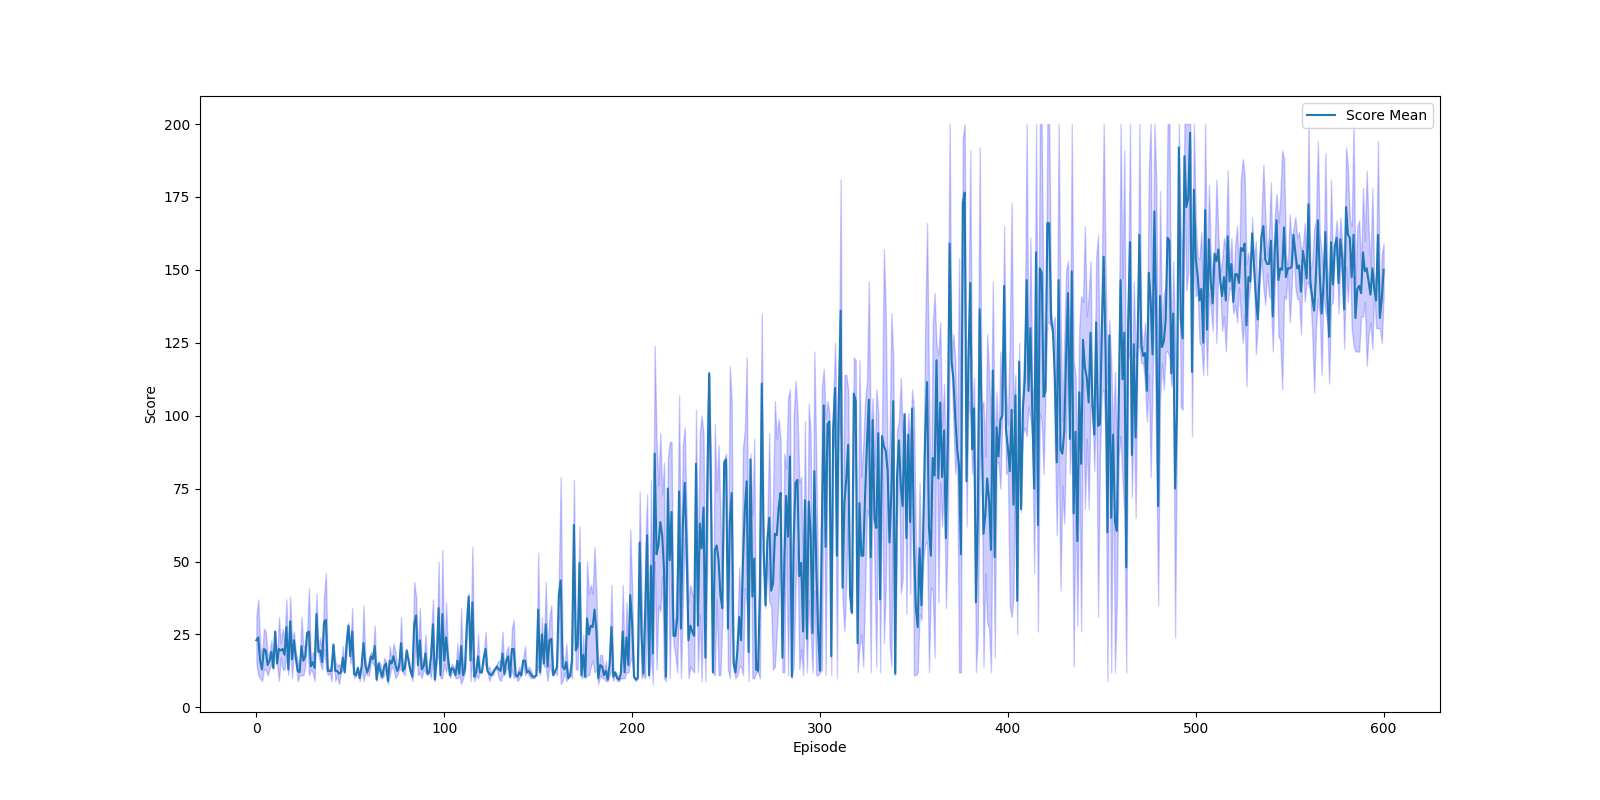
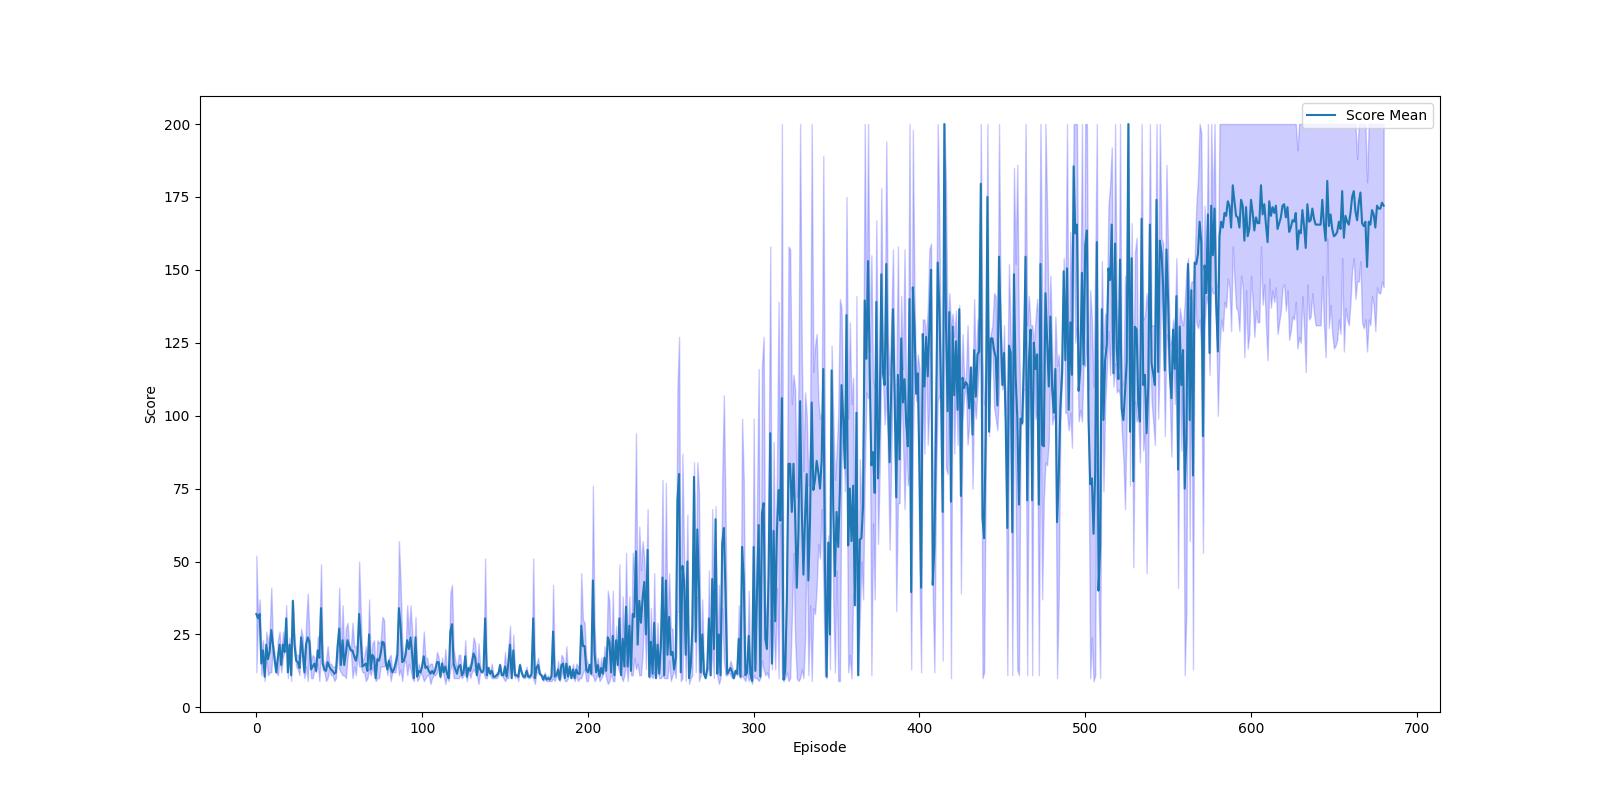
VDP stuff works

Changed region(s): [[0.1562, 0.1562, 0.875, 0.875], [0.25, 0.9062, 0.2812, 0.9375]]

diff --git a/project_experiments/vision_cart_pole.py b/project_experiments/vision_cart_pole.py
@@ -35,10 +35,10 @@ for filename in os.listdir(folder):
 ############ HYPERPARAMETERS ##############
 BATCH_SIZE = 128 # original = 128
 #env_batch_size = 256
-env_epochs = 30
-env_loss_ratio = 0.5 # recon_loss = img_loss + env_loss_ratio*reward_loss
-kl_ratio = 0.01 # loss = recon_loss + kl_ratio+kl_dif_loss
-env_lr = 0.0009
+env_epochs = 10#30
+env_loss_ratio = 0.005 # recon_loss = img_loss + env_loss_ratio*reward_loss
+kl_ratio = 0.00005 # loss = recon_loss + kl_ratio+kl_dif_loss
+env_lr = 0.005
 env_decay = 0.95
 GAMMA = 0.999 # original = 0.999
 EPS_START = 0.9 # original = 0.9
@@ -185,7 +185,7 @@ class D_AutoEncoder(nn.Module):
 
     def __init__(self, h, w, latent_dim, actions, action_latents):#""", state_vars):"""
         super(D_AutoEncoder, self).__init__()
-        self.conv1 = vdp.Conv2d(nn_inputs, HIDDEN_LAYER_1, kernel_size=KERNEL_SIZE, stride=STRIDE) 
+        self.conv1 = vdp.Conv2d(nn_inputs, HIDDEN_LAYER_1, kernel_size=KERNEL_SIZE, stride=STRIDE, input_flag=True) 
         self.bn1 = vdp.BatchNorm2d(HIDDEN_LAYER_1)
         self.conv2 = vdp.Conv2d(HIDDEN_LAYER_1, HIDDEN_LAYER_2, kernel_size=KERNEL_SIZE, stride=STRIDE)
         self.bn2 = vdp.BatchNorm2d(HIDDEN_LAYER_2)
@@ -201,46 +201,59 @@ class D_AutoEncoder(nn.Module):
         self.convh = convh
         self.convw = convw
         nn.Dropout()
-        self.latent_mu = vdp.Linear(linear_input_size, latent_dim)
-        self.latent_sigma = vdp.Linear(linear_input_size, latent_dim)
-        self.action_encode = vdp.Linear(actions, action_latents)
+        self.latentize = vdp.Linear(linear_input_size, latent_dim)
+        #self.latent_mu = vdp.Linear(linear_input_size, latent_dim)
+        #self.latent_sigma = vdp.Linear(linear_input_size, latent_dim)
+        self.action_encode = vdp.Linear(actions, action_latents, input_flag=True)
         self.un_latentize = vdp.Linear(latent_dim + action_latents, linear_input_size)
         self.tconv3 = vdp.ConvTranspose2d(HIDDEN_LAYER_3, deconv_ch2, kernel_size=KERNEL_SIZE, stride=STRIDE, output_padding=[1,0])
         self.tconv2 = vdp.ConvTranspose2d(deconv_ch2, deconv_ch1, kernel_size=KERNEL_SIZE, stride=STRIDE, output_padding=[1,1])
         self.tconv1 = vdp.ConvTranspose2d(deconv_ch1, nn_inputs, kernel_size=KERNEL_SIZE, stride=STRIDE, output_padding=[1,0])
         self.reward_decode = vdp.Linear(linear_input_size, n_env_vars)
+        self.gelu = vdp.GELU()
+        self.sigmoid = vdp.Sigmoid()
 
     # Called with either one element to determine next action, or a batch
     # during optimization. Returns tensor([[left0exp,right0exp]...]).
     def encode(self, x):
         #print(x.shape)
-        x = F.leaky_relu(self.bn1(self.conv1(x)), 0.2)
-        x = F.leaky_relu(self.bn2(self.conv2(x)), 0.2)
-        x = F.leaky_relu(self.bn3(self.conv3(x)), 0.2)
-        mu = self.latent_mu(x.view(x.size(0), -1))
-        log_sigma = self.latent_sigma(x.view(x.size(0), -1))
-        return mu, log_sigma
+        mu, sigma = self.gelu(*self.bn1(*self.conv1(x)))
+        mu, sigma = self.gelu(*self.bn2(*self.conv2(mu, sigma)))
+        mu, sigma = self.gelu(*self.bn3(*self.conv3(mu, sigma)))
+        #mu = self.latent_mu(x.view(x.size(0), -1))
+        #log_sigma = self.latent_sigma(x.view(x.size(0), -1))
+        mu, sigma = self.latentize(mu.view(x.size(0), -1), sigma.view(x.size(0), -1))
+        return mu, sigma
     
     def reparemetrize(self, mu, sigma):
         epsilon = torch.randn_like(sigma).to(device)
         return mu + epsilon * sigma
 
 
-    def decode(self, z):
-        z = F.leaky_relu(self.un_latentize(z), 0.2)
-        rw = self.reward_decode(z)
-        z = F.leaky_relu(self.tconv3(z.view(z.size(0), -1, self.convh, self.convw)), 0.2)
-        z = F.leaky_relu(self.tconv2(z), 0.2)
-        return torch.sigmoid(self.tconv1(z)), rw.view(-1, n_env_vars)
+    def decode(self, mu, sigma):
+        mu, sigma = self.gelu(*self.un_latentize(mu, sigma))
+        r_mu, r_sigma = self.reward_decode(mu, sigma)
+        mu, sigma = self.gelu(*self.tconv3(mu.view(mu.size(0), -1, self.convh, self.convw), 
+                                   sigma.view(sigma.size(0), -1, self.convh, self.convw)))
+        mu, sigma = self.gelu(*self.tconv2(mu, sigma))
+        mu, sigma = self.tconv1(mu, sigma)
+        stuff = self.sigmoid(mu, sigma)
+        mu, sigma = stuff
+        
+        return mu, sigma, r_mu.view(-1, n_env_vars), r_sigma.view(-1, n_env_vars)
     
     def forward(self, x, a):
-        mu, log_sigma = self.encode(x)
-        z = self.reparemetrize(mu, torch.exp(0.5*log_sigma))
+        mu, sigma = self.encode(x)
+        #z = self.reparemetrize(mu, torch.exp(0.5*log_sigma))
         #z = mu
         a = torch.cat((a, torch.ones_like(a)-a), dim=1).float()
-        a = F.leaky_relu(self.action_encode(a))
-        screen, state_vars = self.decode(torch.cat((z, a), dim=1))
-        return screen, state_vars, mu, log_sigma
+        a_mu, a_sigma = self.gelu(*self.action_encode(a))
+        scr_mu, scr_sigma, sv_mu, sv_sigma = self.decode(torch.cat((mu, a_mu), dim=1), torch.cat((sigma, a_sigma), dim=1))
+        return scr_mu, scr_sigma, sv_mu, sv_sigma
+    
+    def get_kl(self):
+        return sum(vdp.gather_kl(self))
+    
     
 # Cart location for centering image crop
 def get_cart_location(screen_width):
@@ -393,13 +406,22 @@ def optimize_env_model():
         reward_batch = torch.cat(batch.reward)
         state_variable_batch = torch.cat(batch.state_vars)
 
-        predicted_next_states, predicted_vars, mu, log_sigma = env_net(state_batch[non_final_mask], \
+        predicted_next_states, scr_sigma, predicted_vars, sv_sigma = env_net(state_batch[non_final_mask], \
                                                                        action_batch[non_final_mask])
 
-        loss = F.smooth_l1_loss(predicted_next_states, non_final_next_states)
-        loss += env_loss_ratio*F.smooth_l1_loss(predicted_vars, state_variable_batch[non_final_mask])
-        #print("b",loss.item())
-        loss -= kl_ratio*0.5 * torch.sum(1+ log_sigma - mu.pow(2) - log_sigma.exp())
+        
+        #loss = F.smooth_l1_loss(predicted_next_states, non_final_next_states)
+        #loss += env_loss_ratio*F.smooth_l1_loss(predicted_vars, state_variable_batch[non_final_mask])
+        loss = -torch.distributions.normal.Normal(predicted_next_states, 
+                                vdp.softplus(scr_sigma)).log_prob(non_final_next_states).mean()
+        #print(loss.item())
+        loss += -env_loss_ratio*torch.distributions.normal.Normal(predicted_vars, 
+                                vdp.softplus(sv_sigma)).log_prob(state_variable_batch[non_final_mask]).mean()
+        #print(loss.item())
+        loss += kl_ratio*env_net.get_kl()
+        #print("a",loss.item())
+        
+        #loss -= kl_ratio*0.5 * torch.sum(1+ log_sigma - mu.pow(2) - log_sigma.exp())
         #print("a",loss.item())
         
         env_optim.zero_grad()
@@ -455,7 +477,7 @@ episodes_trajectories = []
 vae_losses = []
 episodes_after_stop = 100
 
-runs = 2
+runs = 5
 
 # MAIN LOOP
 stop_training = False
